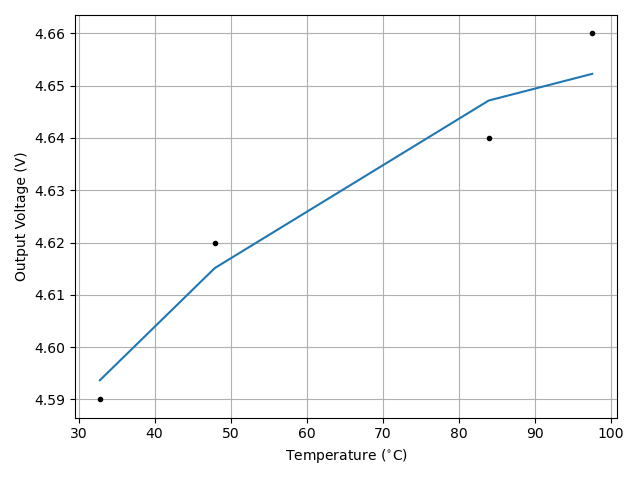
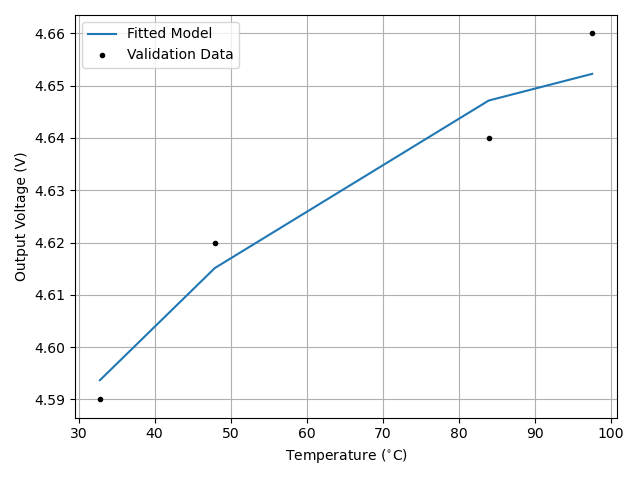
1

Changed region(s): [[0.125, 0.0312, 0.375, 0.1562]]

diff --git a/Hardware Assignment/pt100/codes/main.py b/Hardware Assignment/pt100/codes/main.py
@@ -1,0 +1,48 @@
+import numpy as np
+import matplotlib.pyplot as plt
+
+# Load training data
+A = np.loadtxt('training_data.txt')
+T_train = A[:, 0]
+Y_train = A[:, 1]
+
+# Prepare design matrix for least squares (quadratic model)
+X_train = np.column_stack((np.ones(A.shape[0]), T_train, T_train**2))
+
+# Perform least squares fitting
+theta = np.linalg.lstsq(X_train, Y_train, rcond=None)[0].reshape(-1, 1)
+print("The value of n is:")
+print(theta)
+
+# Plot training results
+plt.figure()
+plt.plot(T_train, X_train @ theta, label='Fitted Model')
+plt.plot(T_train, Y_train, 'k.', label='Training Data')
+plt.grid()
+plt.ylabel('Output Voltage (V)')
+plt.xlabel('Temperature ($^{\circ}$C)')
+plt.legend()
+plt.tight_layout()
+plt.savefig('../figs/train.png')
+
+# Close current figure
+plt.close()
+
+# Load validation data
+B = np.loadtxt('validation_data.txt')
+T_valid = B[:, 0]
+Y_valid = B[:, 1]
+
+# Prepare design matrix for validation
+X_valid = np.column_stack((np.ones(B.shape[0]), T_valid, T_valid**2))
+
+# Plot validation results
+plt.figure()
+plt.plot(T_valid, X_valid @ theta, label='Fitted Model')
+plt.plot(T_valid, Y_valid, 'k.', label='Validation Data')
+plt.grid()
+plt.ylabel('Output Voltage (V)')
+plt.xlabel('Temperature ($^{\circ}$C)')
+plt.legend()
+plt.tight_layout()
+plt.savefig('../figs/valid.png')
